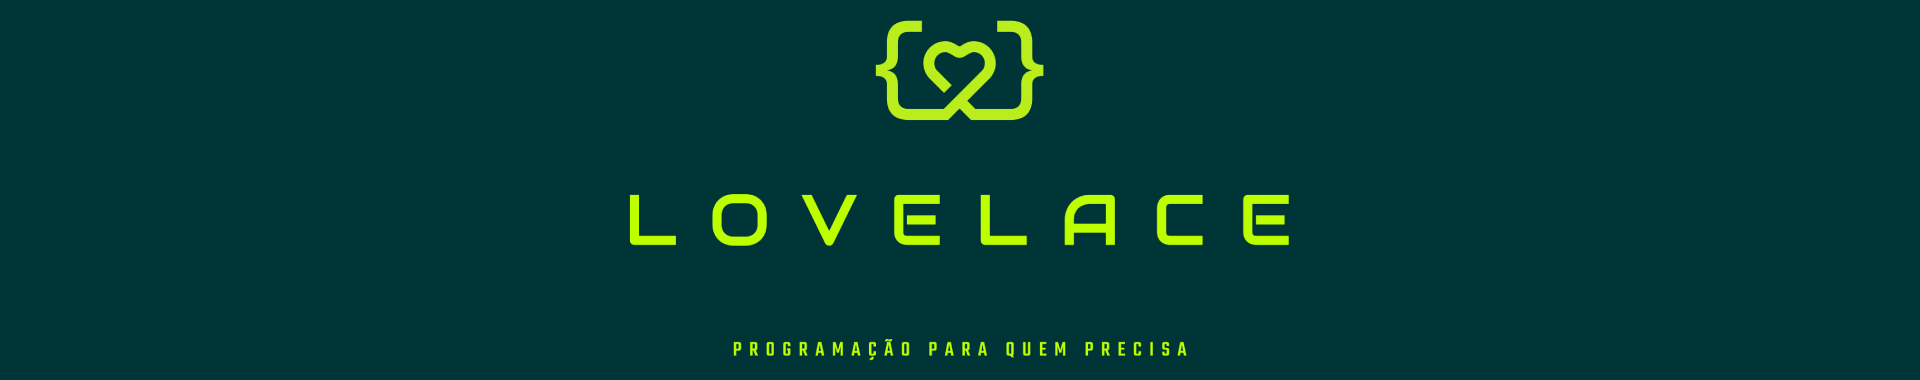
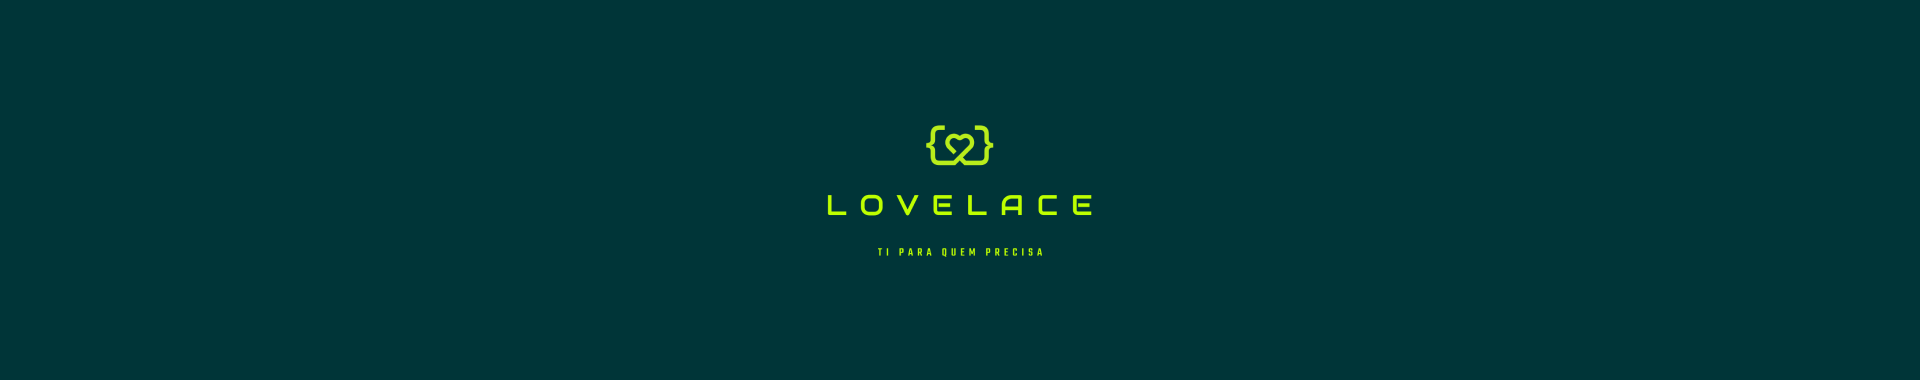
new User register structure

Changed region(s): [[0.3125, 0.4921, 0.6875, 0.6947], [0.4375, 0.0579, 0.5625, 0.4342], [0.375, 0.8974, 0.625, 0.9553]]

diff --git a/public/css/main.css b/public/css/main.css
@@ -61,8 +61,8 @@ body.show-spinner::after {
 }
 
 .social-header-image{
-    max-height: 450px !important;
-    height: 450px !important;
+    max-height: 250px !important;
+    height: 250px !important;
     content:url("../img/lovelace-header.png");
 }
 @media (max-width: 767px) {

diff --git a/src/Controller/Admin/User.php b/src/Controller/Admin/User.php
@@ -5,13 +5,19 @@ namespace App\Controller\Admin;
 
 
 use App\Document\User as UserDocument;
+use App\DTO\Email as EmailObject;
 use App\DTO\Layers\FindInDatabase;
+use App\DTO\Layers\LoginLinkGenerator;
+use App\DTO\Layers\Mailer;
 use App\DTO\MainBuilder;
 use Doctrine\ODM\MongoDB\DocumentManager;
 use Doctrine\ODM\MongoDB\Mapping\Annotations\Document;
 use Symfony\Bundle\FrameworkBundle\Controller\AbstractController;
 use Symfony\Component\HttpFoundation\JsonResponse;
+use Symfony\Component\HttpFoundation\Request;
+use Symfony\Component\HttpFoundation\Response;
 use Symfony\Component\Routing\Annotation\Route;
+use Symfony\Component\Security\Http\LoginLink\LoginLinkHandlerInterface;
 
 /**
  * Class User
@@ -28,16 +34,21 @@ class User extends AbstractController
      * @var DocumentManager
      */
     private $manager;
+    /**
+     * @var LoginLinkHandlerInterface
+     */
+    private $loginLinkHandler;
 
     /**
      * User constructor.
      * @param MainBuilder $mainBuilder
      * @param DocumentManager $manager
      */
-    public function __construct(MainBuilder $mainBuilder, DocumentManager $manager)
+    public function __construct(MainBuilder $mainBuilder, DocumentManager $manager, LoginLinkHandlerInterface $loginLinkHandler)
     {
         $this->mainBuilder = $mainBuilder;
         $this->manager = $manager;
+        $this->loginLinkHandler = $loginLinkHandler;
     }
 
     /**
@@ -96,5 +107,32 @@ class User extends AbstractController
                 ], $exception->getCode() ?: 500
             );
         }
+    }
+
+    /**
+     * @Route("/send/confirmation/email", name="send_confirmation_email")
+     * @param Request $request
+     */
+    public function sendConfirmationEmail(Request $request)
+    {
+        $main = $this->mainBuilder->build($this->manager);
+        $userId = $request->query->get("user");
+
+        #TODO refactor
+
+        $user = $this->manager->find(UserDocument::class, $userId);
+        $user->setRegisterApproved(true);
+        $this->manager->persist($user);
+        $this->manager->flush();
+
+        $email = new EmailObject();
+        $email->setEmailAddress($user->getEmail())
+            ->setTitle("Registro Lovelace");
+        $main->setUser($user);
+        $main->addResults($email);
+        $main->addLayer(new LoginLinkGenerator($this->loginLinkHandler));
+        $main->addLayer(new Mailer($email));
+        $main->run();
+        return new JsonResponse("ok", Response::HTTP_OK);
     }
 }

diff --git a/src/Controller/Register.php b/src/Controller/Register.php
@@ -11,6 +11,7 @@ use App\DTO\Layers\RegisterAddress;
 use App\DTO\Layers\RulesValidator;
 use App\DTO\MainBuilder;
 use App\DTO\Layers\Register as RegisterLayer;
+use App\Services\Map\DataMap;
 use Doctrine\ODM\MongoDB\DocumentManager;
 use Symfony\Bundle\FrameworkBundle\Controller\AbstractController;
 use Symfony\Component\HttpFoundation\JsonResponse;
@@ -62,11 +63,28 @@ class Register extends AbstractController
     }
 
     /**
-     * @Route("", name="register", methods={"GET"})
+     * @Route("/", name="register", methods={"GET"})
+     * @param Request $request
      */
-    public function register()
+    public function registerStudent(Request $request)
     {
-        return $this->render('register/register.html.twig');
+        try {
+            if ($request->query->has("type")) {
+                $type = $request->query->get("type");
+                if (key_exists($type, DataMap::REGISTER_TYPES)) {
+                    return $this->render('register/register.html.twig',
+                        [
+                            "type" => $type,
+                            "typeTranslated" => DataMap::REGISTER_TYPES[$type]
+                        ]
+                    );
+                }
+                throw new \Exception("Type invalid");
+            }
+            throw new \Exception("Missing type in parameters");
+        } catch (\Exception $exception) {
+            return new JsonResponse($exception->getMessage(), Response::HTTP_FORBIDDEN);
+        }
     }
 
     /**
@@ -92,16 +110,10 @@ class Register extends AbstractController
                 throw new \Exception("User field doesn't exist");
             }
 
-            $email = new EmailObject();
-            $email->setEmailAddress($registerData["user"]["email"])
-                ->setTitle("Registro Lovelace");
-
             $main = $this->mainBuilder->build($this->documentManager);
 
             $main->addLayer(new RulesValidator($registerData));
-            $main->addLayer(new RegisterLayer(new User(), $this->loginLinkHandler));
-            $main->addLayer(new LoginLinkGenerator($this->loginLinkHandler));
-            $main->addLayer(new Mailer($email));
+            $main->addLayer(new RegisterLayer(new User()));
 
             $main->run();
 

diff --git a/src/DTO/Layers/Register.php b/src/DTO/Layers/Register.php
@@ -6,6 +6,7 @@ namespace App\DTO\Layers;
 
 use App\Document\User;
 use App\DTO\Main;
+use App\Services\Map\DataMap;
 use Symfony\Component\Security\Http\LoginLink\LoginLinkHandlerInterface;
 
 class Register implements \App\DTO\Layers\LayerInterface
@@ -14,31 +15,28 @@ class Register implements \App\DTO\Layers\LayerInterface
      * @var User
      */
     private $user;
-    /**
-     * @var LoginLinkHandlerInterface
-     */
-    private $loginLinkHandler;
 
     /**
      * Register constructor.
      * @param User $user
-     * @param LoginLinkHandlerInterface $loginLinkHandler
      */
-    public function __construct(User $user, LoginLinkHandlerInterface $loginLinkHandler)
+    public function __construct(User $user)
     {
         $this->user = $user;
-        $this->loginLinkHandler = $loginLinkHandler;
     }
 
     public function exec(Main $main)
     {
         try {
             $registerData = $main->getInputValues()["user"] ?: [];
+            $registerRole = DataMap::REGISTER_ROLES[$registerData["type"]];
             $this->user->setName($registerData["name"])
                 ->setEmail($registerData["email"])
                 ->setPassword(md5($registerData["password"]))
                 ->setEmailValidated(false)
-                ->setRoles("ROLE_USER");
+                ->addRole("ROLE_USER")
+                ->addRole($registerRole)
+                ->setRegisterApproved(false);
             $main->getDocumentManager()->persist($this->user);
             $main->getDocumentManager()->flush();
             $main->setUser($this->user);

diff --git a/src/Document/User.php b/src/Document/User.php
@@ -45,6 +45,11 @@ class User implements UserInterface
     protected $photoPath;
 
     /**
+     * @MongoDB\Field(type="boolean")
+     */
+    protected $registerApproved;
+
+    /**
      * @return mixed
      */
     public function getName()
@@ -106,11 +111,11 @@ class User implements UserInterface
     }
 
     /**
-     * @param $roles
+     * @param $role
      */
-    public function setRoles($roles): self
+    public function addRole($role): self
     {
-        $this->roles[] = $roles;
+        $this->roles[] = $role;
         return $this;
     }
 
@@ -175,6 +180,24 @@ class User implements UserInterface
     public function setPhotoPath($photoPath): self
     {
         $this->photoPath = $photoPath;
+        return $this;
+    }
+
+    /**
+     * @return mixed
+     */
+    public function isRegisterApproved()
+    {
+        return $this->registerApproved;
+    }
+
+    /**
+     * @param mixed $registerApproved
+     * @return User
+     */
+    public function setRegisterApproved($registerApproved)
+    {
+        $this->registerApproved = $registerApproved;
         return $this;
     }
 }

diff --git a/src/Services/Messages/ExceptionMessages.php b/src/Services/Messages/ExceptionMessages.php
@@ -6,25 +6,16 @@ namespace App\Services\Messages;
 
 class ExceptionMessages
 {
-    private $emailNotValidatedMessage;
-//href='{$_SERVER['HTTP_ORIGIN']}/register/resend/email'
-    public function __construct()
-    {
-        $this->emailNotValidatedMessage = "
+    const REGISTER_NOT_APPROVED = "<h4 class='m-0'>Seu cadastro ainda não foi confirmado</h4> 
+        <p class='m-0' style='font-size: 15px'>Aguarde ate que confirmemos o seu cadastro
+        </p>";
+
+    const EMAIL_NOT_VALIDATED = "
         <h4 class='m-0'>Email não confirmado</h4> 
         <p class='m-0' style='font-size: 15px'>se voce não recebeu o email de confirmação 
         <a style='text-decoration: none !important; color: #c43d4b; font-weight: bold; cursor: pointer'
         data-toggle='modal' data-target='#modal'>clique aqui</a>
         </p>";
-    }
-
-    /**
-     * @return string
-     */
-    public function getEmailNotValidatedMessage(): string
-    {
-        return $this->emailNotValidatedMessage;
-    }
 
     public function translate($message): string
     {

diff --git a/src/Security/UserAuthenticator.php b/src/Security/UserAuthenticator.php
@@ -78,8 +78,11 @@ class UserAuthenticator extends AbstractFormLoginAuthenticator
         // Check the user's password or other credentials and return true or false
         // If there are no credentials to check, you can just return true
         if($credentials["email"] == $user->getUsername() && md5($credentials["password"]) == $user->getPassword()){
+            if(!$user->isRegisterApproved()){
+                throw new CustomUserMessageAuthenticationException(ExceptionMessages::REGISTER_NOT_APPROVED);
+            }
             if(!$user->isEmailValidated()){
-                throw new CustomUserMessageAuthenticationException((new ExceptionMessages())->getEmailNotValidatedMessage());
+                throw new CustomUserMessageAuthenticationException(ExceptionMessages::EMAIL_NOT_VALIDATED);
             }
             return true;
         } else {

diff --git a/src/Services/Map/DataMap.php b/src/Services/Map/DataMap.php
@@ -1,0 +1,18 @@
+<?php
+
+
+namespace App\Services\Map;
+
+
+class DataMap
+{
+    const REGISTER_TYPES = [
+      "student" => "aluno",
+      "volunteer" => "voluntário"
+    ];
+
+    const REGISTER_ROLES = [
+        "student" => "ROLE_STUDENT",
+        "volunteer" => "ROLE_VOLUNTEER"
+    ];
+}
